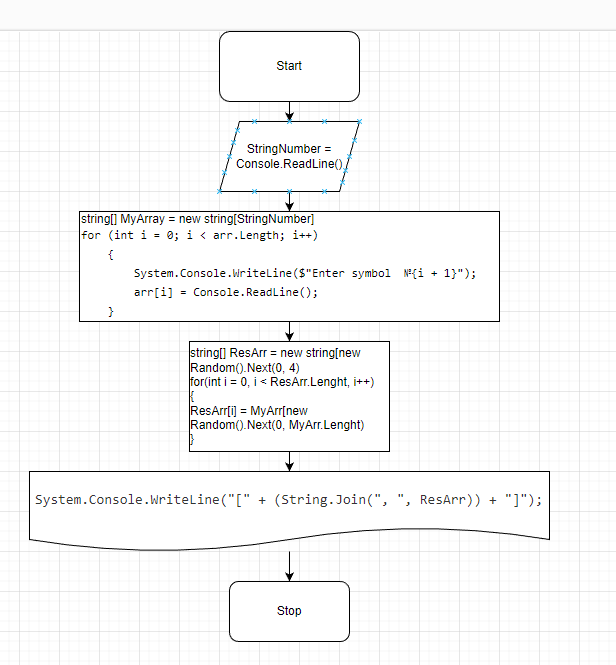
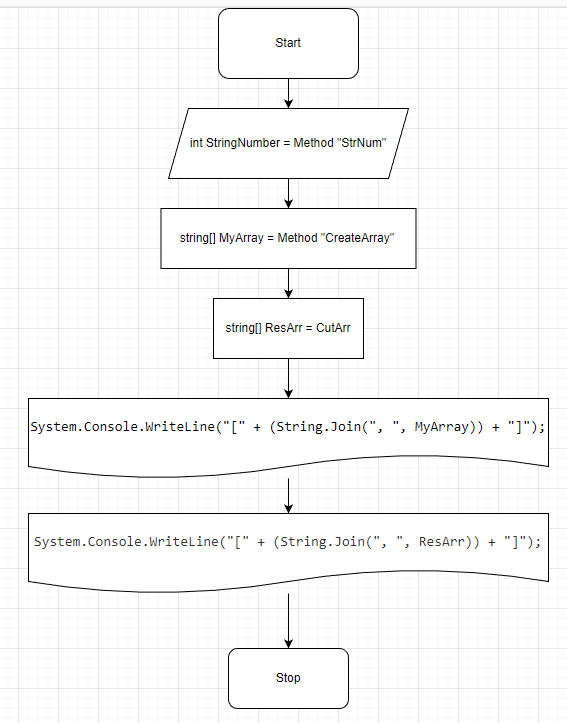
fixed

diff --git a/Task#1/Program.cs b/Task#1/Program.cs
@@ -3,15 +3,30 @@ int StringNumber = StrNum("strings (>=3)");
 // System.Console.WriteLine("Enter number of ");
 string[] MyArray = CreateArray(StringNumber);
 System.Console.WriteLine("[" + (String.Join(", ", MyArray)) + "]");
-string[] ResArr = CutArr(MyArray);
+
+System.Console.WriteLine();
+
+string[] ResArr = CutArr(0);
 System.Console.WriteLine("[" + (String.Join(", ", ResArr)) + "]");
 
-string[] CutArr(string[] arr)
+string[] CutArr(int count)
 {
-    string[] resArr = new string[new Random().Next(0, 4)];
-    for (int i = 0; i < resArr.Length; i++)
+    for (int i = 0; i < MyArray.Length; i++)
     {
-        resArr[i] = arr[new Random().Next(0, arr.Length)];
+        if (MyArray[i].Length < 4 && MyArray[i].Length > 0)
+        {
+            count++;
+        }
+    }
+    string[] resArr = new string[count];
+    int j = 0;
+    for (int i = 0; i < MyArray.Length; i++)
+    {
+        if (MyArray[i].Length < 4 && MyArray[i].Length > 0)
+        {
+            resArr[j] = MyArray[i];
+            j++;
+        }
     }
     return resArr;
 }

diff --git a/README.md b/README.md
@@ -1,13 +1,25 @@
 # Начало
-* Просим пользователя ввести количество строк массива
 
-       Добавляем условие и с помощью цикла while просим пользователя ввести число (num > 3 && num < 10)
-* Создаем стринговый массив **MyArray** и просим пользователя ввести значение для каждой строки.
+ 1. Метод StrNum
 
-* создаем новый массив **ResArr** и с помошью оператора **Random** задаем кол-во строк от 0 до 3. Далее с помошью цикла **for** заполняем массив случайными значениями из первичного массива **MyArray**
+ 1.1 Просим пользователя ввести количество строк массива
 
-* C помощью оператора **String.Join** выводим полученный массив **ResArr** пользователю
+       Добавляем условие и с помощью цикла while просим пользователя ввести число (num > 3 && num < 9)
 
-      Все пункты данной программы были выполненны в отдельно выведенные методы.
+2. Метод **CreateArray** 
+
+ 2.1 Создаем стринговый массив **MyArray** и просим пользователя ввести значение для каждой строки.
+
+3. Метод CutArr
+
+ 3.1 C помошью цикла **for** и условия (MyArray[i].Length < 4 && MyArray[i].Length > 0) считаем количество символов в каждом индексе массива **MyArray**.
+ 
+ 3.2 Получаем размер нового массива **ResArr** и создаем его.
+
+ 3.3 Пользуясь циклом и условием из п. 3.1 записываем значение из массива **MyArray** удволетворяющее наше условие в массив **ResArr** и не забывая указать отдельный инкримент [j].
+
+4. Вывод результата пользователю
+ 
+ 4.1 C помощью оператора **String.Join** выводим полученные массивы **MyArray** и **ResArr** пользователю
 
 # Конец
